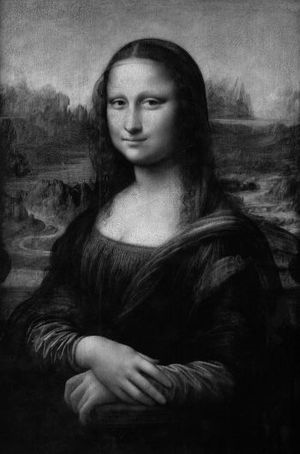
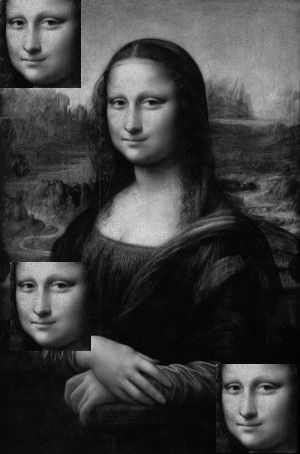
add zoom, change ijMax

diff --git a/app/controllers/main.controller.js b/app/controllers/main.controller.js
@@ -15,6 +15,9 @@ function MainCtrl(MatrixService, CanvasService, ConfigService, $timeout) {
   vm.loadImage = loadImage;
   vm.recognize = recognize;
 
+  vm.zoomIn = zoomIn;
+  vm.zoomOut = zoomOut;
+
 	function recognize() {
 		var matrix = buildCorrelationMatrix(
 		vm.data.image.width,
@@ -28,13 +31,23 @@ function MainCtrl(MatrixService, CanvasService, ConfigService, $timeout) {
 			CanvasService.clean();
 			CanvasService.drawBorder(matrix.length, matrix.length);
 			MatrixService.walkThrough(matrix, function(x, y, element) {
-		  	CanvasService.drawRect(x, y, element.value);
+	  		CanvasService.drawRect(x, y, element.value);
 			});
 
 			var maxElement = MatrixService.findMax(matrix);
 			CanvasService.encloseCell(maxElement.i, maxElement.j);
 
 			console.log('Max', maxElement);
+
+
+
+			var maxElements = MatrixService.findSimilar(matrix, 0.5);
+
+			console.log('Max elements', maxElements);
+
+			maxElements.forEach(function(element) {
+				CanvasService.encloseCell(element.i, element.j);
+			});
 	  }, 1000);
 	}
 	
@@ -42,9 +55,9 @@ function MainCtrl(MatrixService, CanvasService, ConfigService, $timeout) {
 		var image = vm.data.image.imageData,
 				pattern = vm.data.pattern.imageData,
 				i = 0,
-				iMax = patternWidth * (Math.trunc(imageWidth / patternWidth) - 1)
+				iMax = imageWidth - patternWidth,
 				j = 0,
-				jMax = patternHeight * (Math.trunc(imageHeight / patternHeight) - 1),
+				jMax = imageHeight - patternHeight,
 				matrix = MatrixService.create2DArray(Math.trunc(vm.K * imageHeight / patternHeight) - 1),
 				k = 0,
 				l = 0;
@@ -81,14 +94,14 @@ function MainCtrl(MatrixService, CanvasService, ConfigService, $timeout) {
 						MatrixService.clean(pattern.getImageData(0, 0, patternWidth, patternHeight).data))
 				};
 
-				/*console.log('---');
+				console.log('---');
 				console.log('x', i, 'x+', i + patternWidth);
 				console.log('y', j, 'y+', j + patternHeight);
-				console.log('correlation', matrix[k][l]);*/
+				console.log('correlation', matrix[k][l]);
 			}, 0);
 		}
 
-		matrix.length = l;
+		// matrix.length = l;
 		return matrix;
 	}
 
@@ -99,5 +112,13 @@ function MainCtrl(MatrixService, CanvasService, ConfigService, $timeout) {
   		height: height,
   		imageData: imageData
   	};
+  }
+
+  function zoomIn() {
+  	CanvasService.zoomIn();
+  }
+
+  function zoomOut() {
+  	CanvasService.zoomOut();
   }
 };

diff --git a/app/services/canvas.service.js b/app/services/canvas.service.js
@@ -4,9 +4,11 @@ angular.module('EYE')
 CanvasService.$inject = ['ConfigService'];
 
 function CanvasService(ConfigService) {
-  var CONTEXT = init('canvas-anchor', 900, 630),
+  var CONTEXT = init('canvas-anchor', 1900, 1630),
       CANVAS,
-      cellWidth = ConfigService.cellWidth;
+      cellWidth = ConfigService.cellWidth,
+      container = document.getElementById('canvas-anchor'),
+      zoom = 1;;
       
       CONTEXT.lineWidth = ConfigService.lineWidth;
       // CONTEXT.translate(0.5, 0.5);
@@ -81,11 +83,25 @@ function CanvasService(ConfigService) {
     CONTEXT.clearRect(0, 0, CANVAS.width, CANVAS.height);
   }
 
+  function zoomIn() {
+    zoom += 0.1;
+    container.style.zoom = zoom; 
+    console.log(container.style.zoom);
+  }
+
+  function zoomOut() {
+    zoom -= 0.1;
+    container.style.zoom = zoom;
+    console.log(container.style.zoom);
+  }
+
 	return {
     drawBorder: drawBorder,
     drawGrid: drawGrid,
     drawRect: drawRect,
     encloseCell: encloseCell,
-    clean: clean
+    clean: clean,
+    zoomIn: zoomIn,
+    zoomOut: zoomOut
 	};
 };

diff --git a/app/services/matrix.service.js b/app/services/matrix.service.js
@@ -16,7 +16,8 @@ function MatrixService() {
 
     for (var i = 0; i < m; i++)
       for (var j = 0; j < n; j++)
-        callback(i, j, matrix[i][j]);
+        if (matrix[i][j])
+          callback(i, j, matrix[i][j]);
   }
 
 	function createRandomMatrix(m, n) {
@@ -48,11 +49,23 @@ function MatrixService() {
 
     return maxElement;
   }
+
+  function findSimilar(matrix, minValue) {
+    var maxElements = [];
+
+    this.walkThrough(matrix, function(i, j, element) {
+      if (element.value >= minValue)
+        maxElements.push(Object.assign({}, element));
+    });
+
+    return maxElements;
+  }
 	return {
     clean: clean,
 		createRandomMatrix: createRandomMatrix,
     walkThrough: walkThrough,
     create2DArray: create2DArray,
-    findMax: findMax
+    findMax: findMax,
+    findSimilar: findSimilar
 	};
 };

diff --git a/app/templates/main.html b/app/templates/main.html
@@ -11,7 +11,7 @@
 	callback="vm.loadImage(name, imageData, width, height)"> -->
 
 <img 
-	src="img/image.png" 
+	src="img/mona_lisa.png" 
 	image-object name="'image'" 
 	callback="vm.loadImage(name, imageData, width, height)">
 <img 
@@ -37,4 +37,10 @@
 	image-object name="'pattern'" 
 	callback="vm.loadImage(name, imageData, width, height)"> -->
 
-<div id="canvas-anchor"></div>
+<div class="canvas-controls">
+	<button ng-click="vm.zoomIn()">+</button>
+	<button ng-click="vm.zoomOut()">-</button>
+</div>
+
+<div id="canvas-anchor">
+</div>

diff --git a/styles/style.css b/styles/style.css
@@ -1,9 +1,7 @@
 #canvas-anchor {
 	height: 640px;
   background: black;
-  display: flex;
-  justify-content: center;
-  align-items: center;
+  overflow: auto;
 }
 
 canvas {
